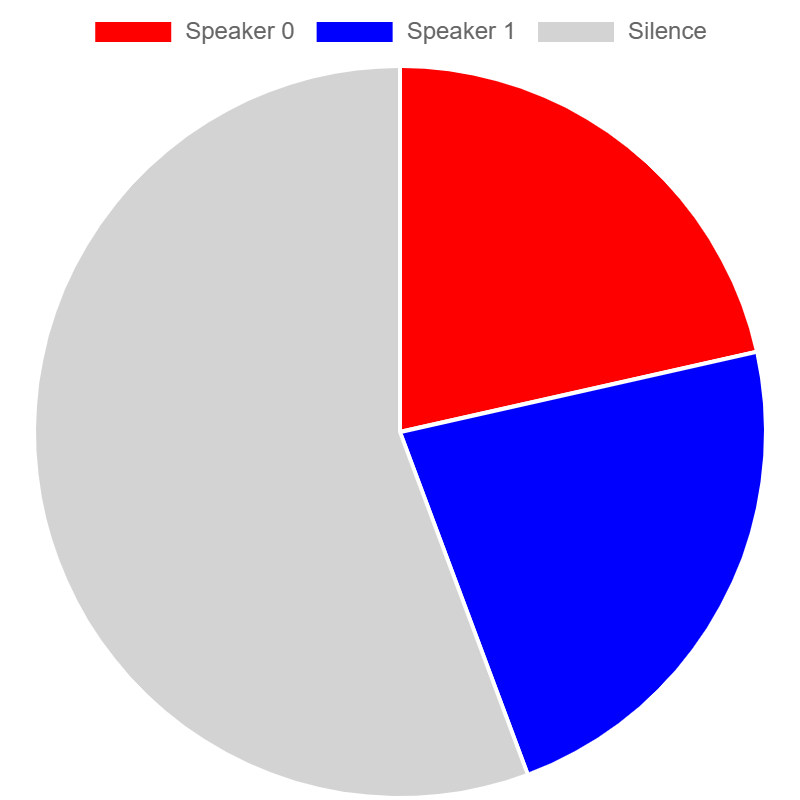
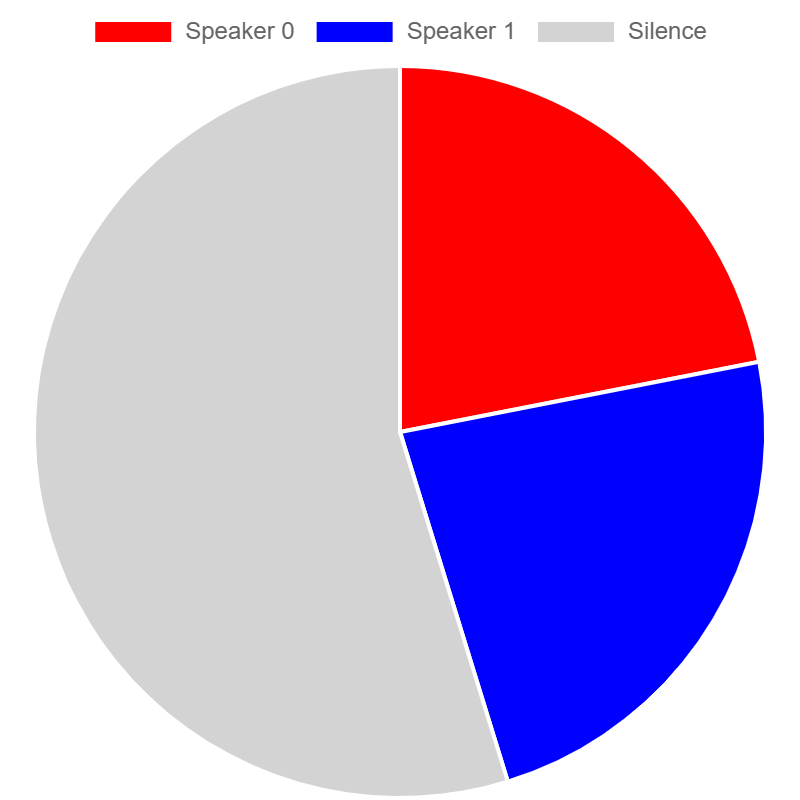
円グラフ横並びにした

Changed region(s): [[0.5625, 0.4375, 0.9688, 0.5312], [0.5312, 0.625, 0.6562, 0.9688], [0.5, 0.5312, 0.5312, 0.625]]

diff --git a/pie-graph.php b/pie-graph.php
@@ -1,0 +1,147 @@
+<!DOCTYPE html>
+<html lang="en">
+<head>
+    <meta charset="UTF-8">
+    <meta name="viewport" content="width=device-width, initial-scale=1.0">
+    <script src="https://cdn.jsdelivr.net/npm/chart.js"></script>
+    <style>
+        /* 全体を横並びレイアウト */
+    .row {
+      display: flex;
+      justify-content: center; /* 中央寄せ */
+      gap: 20px; /* キャンバス同士の隙間 */
+    }
+    /* キャンバスを小さく（例：幅・高さ200px） */
+    .chart-canvas {
+      width: 300px;
+      height: 300px;
+      border: 1px solid black; /* 任意で表示枠 */
+    }
+        .chart-container {
+            margin-bottom: 50px;
+            text-align: center;
+        }
+        canvas {
+            display: block;
+            margin: 0 auto;
+            border: 1px solid black;
+        }
+    </style>
+</head>
+<body>
+<?php
+session_start();
+include("funcs.php");
+$pdo = db_conn();
+
+// speakerデータ取得
+$sql = "SELECT label, starttime, endtime FROM speaker_result";
+$stmt = $pdo->prepare($sql);
+$stmt->execute();
+$speakerResults = $stmt->fetchAll(PDO::FETCH_ASSOC);
+
+$speaker0Time = 0;
+$speaker1Time = 0;
+$totalGapTime = 0;
+
+foreach ($speakerResults as $i => $row) {
+    $label = $row['label'];
+    $starttime = (int)$row['starttime'];
+    $endtime = (int)$row['endtime'];
+
+    $duration = $endtime - $starttime;
+    if ($label === "speaker0") {
+        $speaker0Time += $duration;
+    } elseif ($label === "speaker1") {
+        $speaker1Time += $duration;
+    }
+
+    if ($i > 0) {
+        $prevEndTime = $speakerResults[$i - 1]['endtime'];
+        $gap = $starttime - $prevEndTime;
+        if ($gap > 0) {
+            $totalGapTime += $gap;
+        }
+    }
+}
+// セッションにデータを保存
+$_SESSION['speaker0Time'] = $speaker0Time;
+$_SESSION['speaker1Time'] = $speaker1Time;
+$_SESSION['totalGapTime'] = $totalGapTime;
+
+
+// advice.php を呼び出して内容を表示
+include "advice.php";
+
+// 話者分析データベースから情報を取得
+$sql = "SELECT label, starttime, endtime FROM speaker_result";
+$stmt = $pdo->prepare($sql);
+$stmt->execute();
+$results = $stmt->fetchAll(PDO::FETCH_ASSOC);
+
+// JSON形式に変換
+$speakerData = json_encode($results, JSON_HEX_TAG | JSON_HEX_AMP | JSON_HEX_APOS | JSON_HEX_QUOT);
+if (!$speakerData) {
+die("JSONエンコードエラー: " . json_last_error_msg());
+}  
+
+?>
+
+<!-- <div class="chart-container"> -->
+    <!-- <h2>円グラフ（ギャップを含む）</h2> -->
+    <!-- <canvas id="chartWithGap" width="400" height="400"></canvas> -->
+    <!-- <h2>円グラフ（ギャップを含まない）</h2> -->
+    <!-- <canvas id="chartWithoutGap" width="400" height="400"></canvas> -->
+<!-- </div> -->
+
+<div class="row">
+    <!-- 2つのCanvasを横並びに -->
+    <canvas id="chartWithoutGap" class="chart-canvas"></canvas>
+    <canvas id="chartWithGap" class="chart-canvas"></canvas>
+  </div>
+
+<script>
+    document.addEventListener("DOMContentLoaded", () => {
+        const speaker0Time = <?php echo $speaker0Time; ?>;
+        const speaker1Time = <?php echo $speaker1Time; ?>;
+        const totalGapTime = <?php echo $totalGapTime; ?>;
+        
+        const ctxWithoutGap = document.getElementById("chartWithoutGap").getContext("2d");
+        const ctxWithGap = document.getElementById("chartWithGap").getContext("2d");
+
+        // 円グラフ描画
+        let myPieChartWithGap = new Chart(ctxWithGap, {
+            type: "pie",
+            data: {
+                labels: ["Speaker 0", "Speaker 1", "Silence"],
+                datasets: [{
+                    backgroundColor: ["red", "blue", "lightgray"],
+                    data: [speaker0Time, speaker1Time, totalGapTime],
+                }],
+            },
+            options: {
+                responsive: false,
+                animation: { duration: 0 },
+            },
+        });
+
+        let myPieChartWithoutGap = new Chart(ctxWithoutGap, {
+            type: "pie",
+            data: {
+                labels: ["Speaker 0", "Speaker 1"],
+                datasets: [{
+                    backgroundColor: ["red", "blue"],
+                    data: [speaker0Time, speaker1Time],
+                }],
+            },
+            options: {
+                responsive: false,
+                animation: { duration: 0 },
+            },
+        });
+        
+    });
+</script>
+</body>
+</html>
+

diff --git a/funcs.php b/funcs.php
@@ -7,10 +7,10 @@ function h($str){
 //DB接続
 function db_conn(){
   try {
-    $db_name = 'forest-people_gs_1on1';
-    $db_host = 'mysql3101.db.sakura.ne.jp';
-    $db_id = 'forest-people';
-    $db_pw = 'dbmy1010';
+    $db_name = 'gs_1on1';
+    $db_host = 'localhost';
+    $db_id = 'root';
+    $db_pw = '';
       return new PDO('mysql:dbname='.$db_name.';charset=utf8;host='.$db_host, $db_id, $db_pw);
   } catch (PDOException $e) {
     exit('DB Connection Error:'.$e->getMessage());

diff --git a/login_act.php b/login_act.php
@@ -46,7 +46,7 @@ if($pw){
     redirect("index.php");
   } elseif($action === "analysis_result"){
     // 「分析結果確認」ボタン
-    redirect("graph.php");
+    redirect("pie-graph.php");
 }else{
   //Login失敗時(login.phpへ)
   redirect("login.php");
